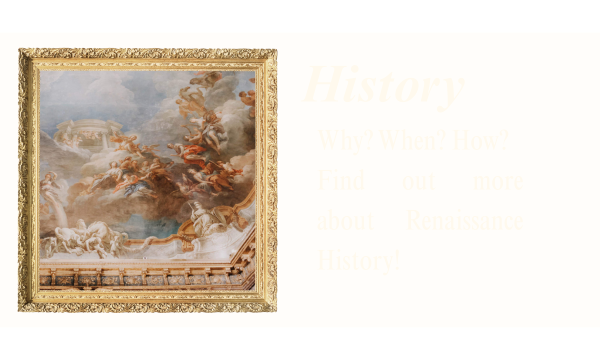
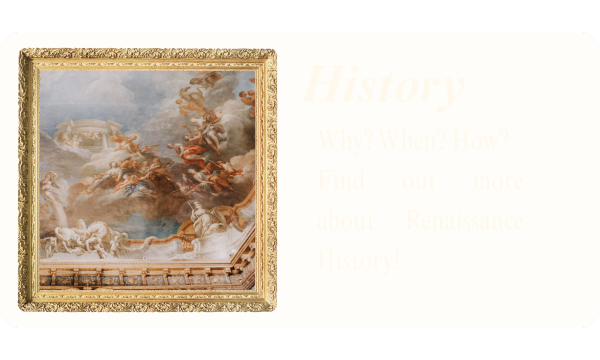
commit

Changed region(s): [[0.03, 0.7944, 0.48, 0.8861], [0.45, 0.7333, 0.48, 0.7639]]

diff --git a/index.html b/index.html
@@ -107,7 +107,7 @@
             <p> Sabrielle Ellise Celis: b2029sercelis@pshs.edu.ph </p>
         </div>
         <div class="center-footer"></div><p>© 2025 Rebirth of Art. All rights reserved. Note: All images in this website are NOT ORIGINAL CONTENT.</p></div>
-        <div class="right-footer"><p> <a href="../sources.html">Sources </a></p></div>
+        <div class="right-footer"><p> <a href="./public/sources.html">Sources </a></p></div>
     </footer>
 </body>
 </html>

diff --git a/public/artstyle-theme/art-style.html b/public/artstyle-theme/art-style.html
@@ -45,7 +45,7 @@
         .disegno-colorito div img {  /*image size and formatting*/
             width: 35rem;  
             height: auto;  
-            border-radius: 0.4rem;
+            border-radius: 12px;
         }
 
         .disegno-colorito div { /*minor desc. formatting*/
